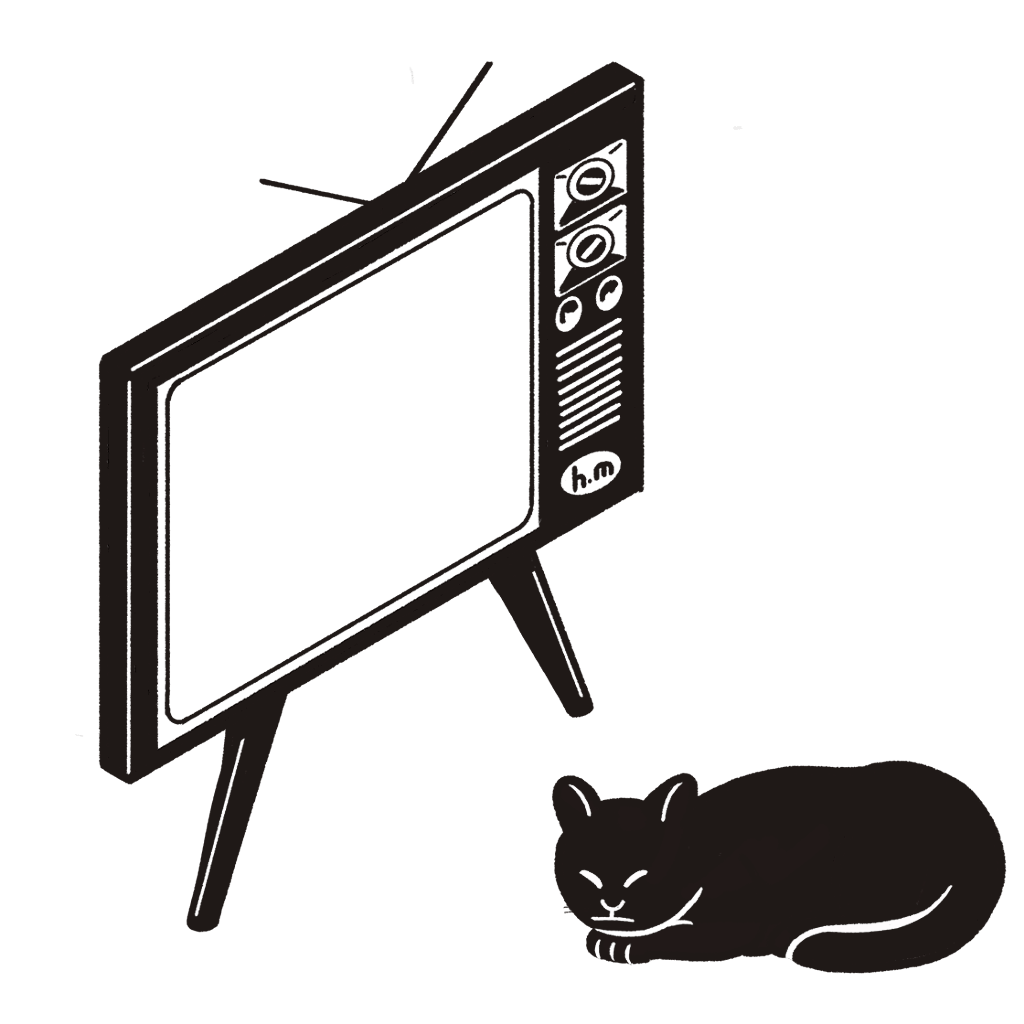
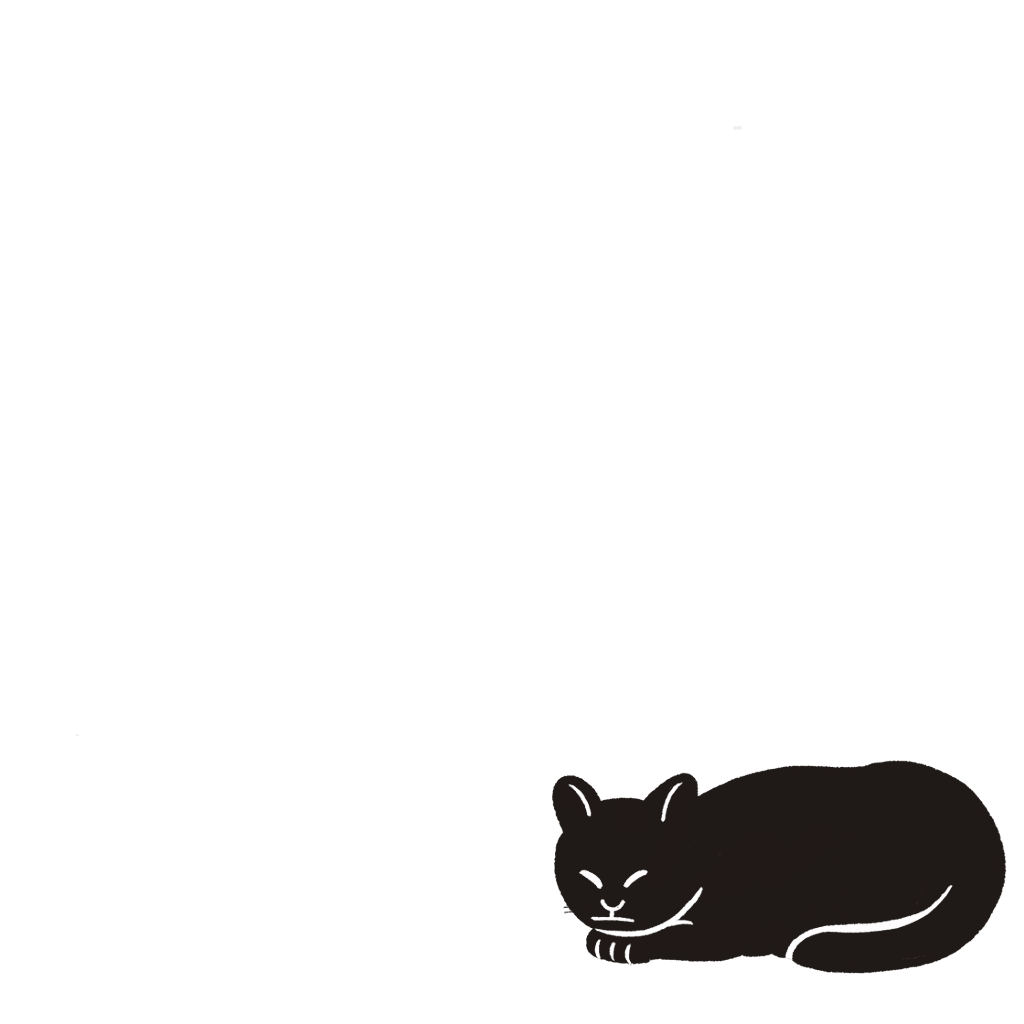
Decouple neko and tv

Changed region(s): [[0.0938, 0.0625, 0.6562, 0.9062], [0.25, 0.1562, 0.3125, 0.1875]]

diff --git a/src/scenes/surreal-tv.js b/src/scenes/surreal-tv.js
@@ -16,6 +16,7 @@ import {
 } from 'd3-ease'
 import monsterTexturePath from '../assets/images/2019/apr/monster-bw.png'
 import nekoTexturePath from '../assets/images/2019/apr/neko-bw.png'
+import tvTexturePath from '../assets/images/2019/apr/tv-bw.png'
 import tatamiAlphaTexturePath from '../assets/images/2019/apr/tatami-alpha.png'
 import { Animator, delay, transition } from '../models/animator.js'
 import { DEGREES_TO_RADIANS } from '../models/constants.js'
@@ -51,10 +52,11 @@ class SurrealTVScene extends Scene {
     await this.loadSubfloor()
     await this.loadFloor()
     await Promise.all([
-      this.loadNekoTV(),
+      this.loadNeko(),
+      this.loadTV(),
       this.loadScreen(),
     ])
-    await this.loadMonsterTV()
+    await this.loadMonster()
     await this.loadScreenLight()
     await this.loadMonsterLight()
   }
@@ -90,23 +92,10 @@ class SurrealTVScene extends Scene {
     floor.position.set(0.11, 0, 0)
     this.add(floor)
     this.floor = floor
-    await this.transitionOpacity(floor, 1000)
+    await this.transitionOpacity(floor, 1, 1000)
   }
 
-  loadMonsterLight() {
-    const light = Object.assign(new SpotLight(), {
-      angle: 90 * DEGREES_TO_RADIANS,
-      color: Colors.mint,
-      distance: 1.6,
-      intensity: 0,
-      penumbra: 1,
-    })
-    light.position.set(-0.25, 0.2, 1)
-    this.monsterTV.add(light)
-    this.monsterLight = light
-  }
-
-  async loadMonsterTV() {
+  async loadMonster() {
     const map = await this.textureLoader.load(monsterTexturePath)
     const material = new MeshPhongMaterial({
       color: Colors.whitesmoke,
@@ -115,15 +104,26 @@ class SurrealTVScene extends Scene {
       opacity: 0.0,
     })
     const geometry = new PlaneGeometry(2, 2)
-    const tv = new Mesh(geometry, material)
+    const monster = this.monster = new Mesh(geometry, material)
     // Simulate sprite rendering:
-    tv.lookAt(this.camera.position)
-    tv.position.lerp(this.camera.position, 0.5)
-    this.add(tv)
-    this.monsterTV = tv
+    monster.lookAt(this.camera.position)
+    monster.position.lerp(this.camera.position, 0.5)
+    this.add(monster)
   }
 
-  async loadNekoTV() {
+  loadMonsterLight() {
+    const light = this.monsterLight = Object.assign(new SpotLight(), {
+      angle: 90 * DEGREES_TO_RADIANS,
+      color: Colors.mint,
+      distance: 1.6,
+      intensity: 0,
+      penumbra: 1,
+    })
+    light.position.set(-0.25, 0.2, 1)
+    this.monster.add(light)
+  }
+
+  async loadNeko() {
     const map = await this.textureLoader.load(nekoTexturePath)
     const material = new MeshPhongMaterial({
       color: Colors.whitesmoke,
@@ -132,13 +132,12 @@ class SurrealTVScene extends Scene {
       opacity: 0.0,
     })
     const geometry = new PlaneGeometry(2, 2)
-    const tv = new Mesh(geometry, material)
+    const neko = this.neko = new Mesh(geometry, material)
     // Simulate sprite rendering:
-    tv.lookAt(this.camera.position)
-    tv.position.lerp(this.camera.position, 0.5)
-    this.add(tv)
-    this.nekoTV = tv
-    await this.transitionOpacity(tv, 1000)
+    neko.lookAt(this.camera.position)
+    neko.position.lerp(this.camera.position, 0.5)
+    this.add(neko)
+    await this.transitionOpacity(neko, 1, 1000)
   }
 
   async loadScreen() {
@@ -154,7 +153,7 @@ class SurrealTVScene extends Scene {
     screen.position.set(0.56, 0.91, 1.00)
     this.add(screen)
     this.screen = screen
-    await this.transitionOpacity(screen, 1000)
+    await this.transitionOpacity(screen, 1, 1000)
     screen.transparent = false
   }
 
@@ -191,6 +190,23 @@ class SurrealTVScene extends Scene {
     this.subfloor = subfloor
   }
 
+  async loadTV() {
+    const map = await this.textureLoader.load(tvTexturePath)
+    const material = new MeshPhongMaterial({
+      color: Colors.whitesmoke,
+      map,
+      transparent: true,
+      opacity: 0.0,
+    })
+    const geometry = new PlaneGeometry(2, 2)
+    const tv = this.tv = new Mesh(geometry, material)
+    // Simulate sprite rendering:
+    tv.lookAt(this.camera.position)
+    tv.position.lerp(this.camera.position, 0.5)
+    this.add(tv)
+    await this.transitionOpacity(tv, 1, 1000)
+  }
+
   resize(width, height) {
     this.camera.cover(width, height, 2.25, 2.25)
   }
@@ -214,40 +230,36 @@ class SurrealTVScene extends Scene {
   }
 
   async transitionToNight(duration) {
-    const { ambientLight, monsterTV, nekoTV, screenLight, subfloor } = this
+    const { ambientLight, monster, neko, tv, screenLight, subfloor } = this
     await Promise.all([
       this.transitionOpacity(subfloor, 1, duration),
-      this.transitionIntensity(ambientLight, 0, duration)
+      this.transitionOpacity(neko, 0, duration),
+      this.transitionIntensity(ambientLight, 0, duration),
+      this.transitionIntensity(screenLight, 1, duration * 1/2),
     ])
     await Promise.all([
-      this.transitionIntensity(screenLight, 1, duration * 1/2),
-      this.transitionOpacity(nekoTV, 0, duration * 5/8),
-      this.transitionOpacity(monsterTV, 1, duration * 5/8),
+      this.transitionOpacity(tv, 0, duration * 5/8),
+      this.transitionOpacity(monster, 1, duration * 5/8),
     ])
   }
 
   async transitionToDay(duration) {
-    const { ambientLight, monsterTV, nekoTV, screenLight, subfloor } = this
+    const { ambientLight, monster, neko, tv, screenLight, subfloor } = this
     await Promise.all([
+      this.transitionOpacity(tv, 1, duration * 5/8),
+      this.transitionOpacity(monster, 0, duration * 5/8),
+    ])
+    await Promise.all([
+      this.transitionOpacity(subfloor, 0, duration),
+      this.transitionOpacity(neko, 1, duration),
+      this.transitionIntensity(ambientLight, 1, duration),
       this.transitionIntensity(screenLight, 0, duration * 1/2),
-      (async () => {
-        await this.delay(duration * 1/4)
-        await Promise.all([
-          this.transitionOpacity(nekoTV, 1, duration * 5/8),
-          this.transitionOpacity(monsterTV, 0, duration * 5/8),
-        ])
-      })(),
-      (async () => {
-        await this.delay(duration * 3/8)
-        await Promise.all([
-          this.transitionIntensity(ambientLight, 1, duration * 5/8),
-          this.transitionOpacity(subfloor, 0, duration * 5/8)
-        ])
-      })()
     ])
   }
 
   update(deltaTime) {
+    deltaTime *= 4.0
+
     this.animator.update(deltaTime)
 
     if (this.camera.needsUpdate)
